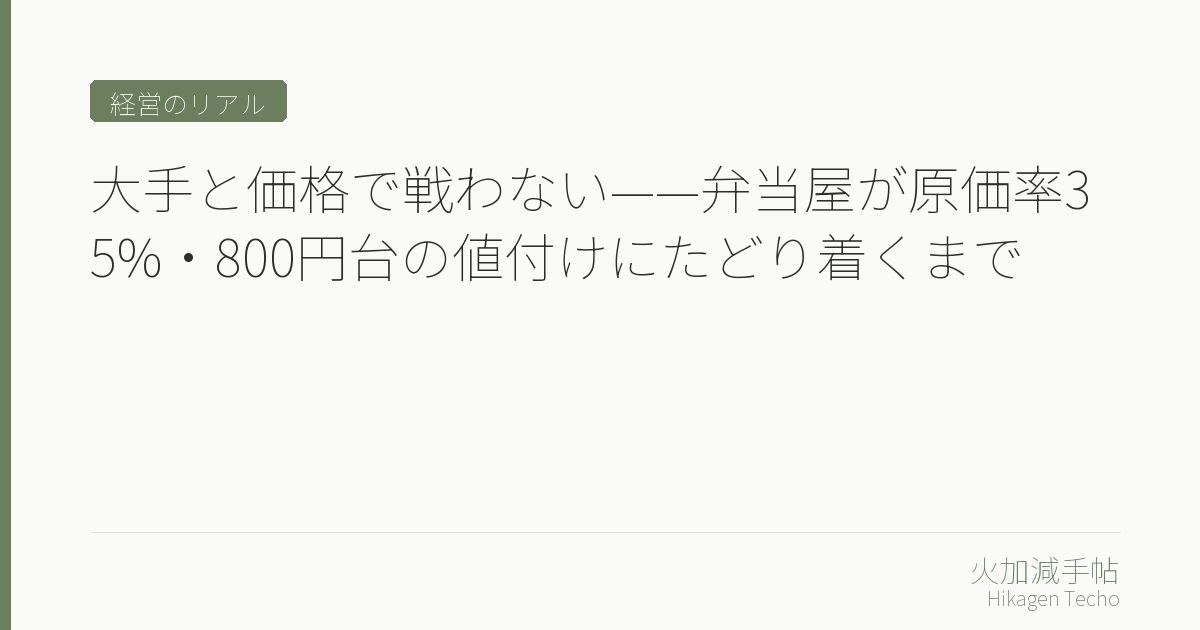
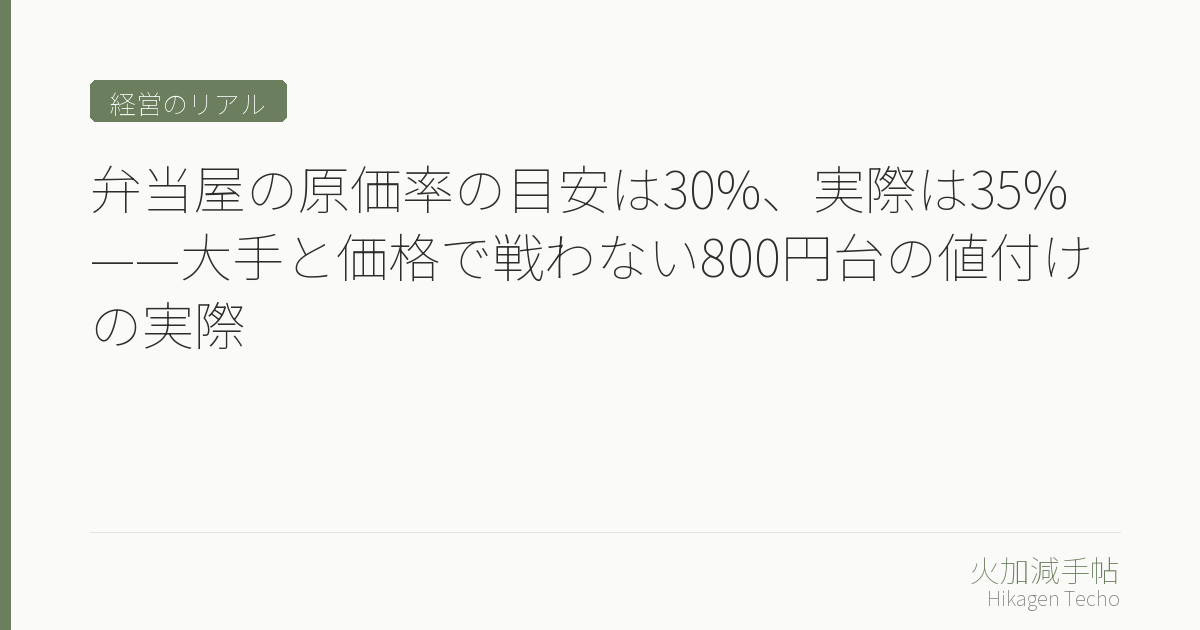
feat: strengthen keiei/nebuke for 原価率 query cluster (GSC-driven)
GSCで nebuke が96表示・掲載順位10.4位（1P目最下部）とサイト表示の約半分を
占めるのにクリック0だったため、原価率クラスター（目安/相場/30-40%/高級弁当）に
最適化。タイトル・description・H1を検索語に寄せ、原価率の目安と相場セクション＋
FAQ2問を追加。genka-kanri への内部リンクを追加し、関連リンクの404
（hitori-unui→hitori-unei）を修正。dateModified・OGP・sitemap更新。

Changed region(s): [[0.0617, 0.2413, 0.925, 0.4524], [0.0617, 0.4825, 0.2158, 0.5429]]

diff --git a/keiei/nebuke/index.html b/keiei/nebuke/index.html
@@ -8,14 +8,14 @@
 <link rel="apple-touch-icon" href="/apple-touch-icon.png">
 
 <!-- ===== 基本メタ / SEO ===== -->
-<title>大手と価格で戦わない——弁当屋が原価率35%・800円台の値付けにたどり着くまで｜火加減手帖</title>
-<meta name="description" content="弁当800〜1,000円・原価率平均35%・看板商品の誤算まで。大手やスーパーと価格で競わない弁当屋の値付け戦略と、実際にやってみてわかった失敗を一次情報で解説します。">
+<title>弁当屋の原価率の目安は30%、実際は35%——大手と価格で戦わない800円台の値付けの実際｜火加減手帖</title>
+<meta name="description" content="弁当屋の原価率の目安は？私の店は目標30%・実際の平均は35%前後（高級弁当は40%になることも）。大手やスーパーと価格で戦わない800円台の値付けと、看板商品の誤算まで一次情報で解説します。">
 <link rel="canonical" href="https://hikagen-techo.com/keiei/nebuke/">
 
 <!-- ===== OGP ===== -->
 <meta property="og:type" content="article">
-<meta property="og:title" content="大手と価格で戦わない——弁当屋が原価率35%・800円台の値付けにたどり着くまで｜火加減手帖">
-<meta property="og:description" content="弁当800〜1,000円・原価率平均35%・看板商品の誤算まで。大手と価格で戦わない弁当屋の値付け戦略と失敗を本音で。">
+<meta property="og:title" content="弁当屋の原価率の目安は30%、実際は35%——大手と価格で戦わない800円台の値付けの実際｜火加減手帖">
+<meta property="og:description" content="弁当屋の原価率の目安は？目標30%・実際の平均35%前後（高級弁当は40%も）。大手と価格で戦わない800円台の値付けと看板商品の誤算を本音で。">
 <meta property="og:url" content="https://hikagen-techo.com/keiei/nebuke/">
 <meta property="og:site_name" content="火加減手帖">
 <meta property="og:locale" content="ja_JP">
@@ -51,15 +51,16 @@
 {
   "@context": "https://schema.org",
   "@type": "Article",
-  "headline": "大手と価格で戦わない——弁当屋が原価率35%・800円台の値付けにたどり着くまで",
-  "description": "弁当800〜1,000円・原価率平均35%・看板商品の誤算まで。大手やスーパーと価格で競わない弁当屋の値付け戦略と、実際にやってみてわかった失敗を一次情報で解説します。",
+  "headline": "弁当屋の原価率の目安は30%、実際は35%——大手と価格で戦わない800円台の値付けの実際",
+  "description": "弁当屋の原価率の目安は？私の店は目標30%・実際の平均は35%前後（高級弁当は40%になることも）。大手やスーパーと価格で戦わない800円台の値付けと、看板商品の誤算まで一次情報で解説します。",
   "mainEntityOfPage": { "@type": "WebPage", "@id": "https://hikagen-techo.com/keiei/nebuke/" },
   "author": { "@id": "https://hikagen-techo.com/#person" },
   "publisher": { "@type": "Organization", "name": "火加減手帖", "url": "https://hikagen-techo.com/" },
   "datePublished": "2026-05-28",
-  "dateModified": "2026-05-28",
+  "dateModified": "2026-07-15",
   "inLanguage": "ja",
-  "articleSection": "経営のリアル"
+  "articleSection": "経営のリアル",
+  "keywords": "弁当屋 原価率, 原価率 目安, 原価率 相場, 高級弁当 原価率, 弁当 値付け"
 }
 </script>
 
@@ -86,6 +87,16 @@
       "@type": "Question",
       "name": "弁当屋の適正な原価率はどのくらいですか？",
       "acceptedAnswer": { "@type": "Answer", "text": "一般的には30%前後が目安とされています。私は30%を目標にしていますが、見栄えを考えて食材を足すことが多く、実際の平均は35%前後です。高い商品では40%になることもあります。" }
+    },
+    {
+      "@type": "Question",
+      "name": "弁当屋の原価率の相場・目安は30%と35%のどちらですか？",
+      "acceptedAnswer": { "@type": "Answer", "text": "一般に語られる目安・相場は30%前後で、値付けの出発点としてはこの数字が妥当です。ただ実際に営業すると、見栄えのために食材を足す分で私の店の平均は35%前後に上がります。目安は30%、実態は35%前後、と分けて考えるのが現実的です。" }
+    },
+    {
+      "@type": "Question",
+      "name": "高級弁当の原価率はどのくらいが目安ですか？",
+      "acceptedAnswer": { "@type": "Answer", "text": "見栄えや素材を重視する高級弁当は、通常の弁当より原価率が高くなり、私の店では35〜40%になることが多いです。原価率を抑えるより、その価格でも選ばれる付加価値を作れるかどうかで判断しています。" }
     },
     {
       "@type": "Question",
@@ -155,11 +166,11 @@
   <!-- 記事ヘッダー -->
   <header class="post-header">
     <span class="post-cat">経営のリアル</span>
-    <h1 class="post-title">大手と価格で戦わない——弁当屋が原価率35%・800円台の値付けにたどり着くまで</h1>
+    <h1 class="post-title">弁当屋の原価率の目安は30%、実際は35%——大手と価格で戦わない800円台の値付けの実際</h1>
     <div class="post-meta">
       <time datetime="2026-05-28">2026年5月28日 公開</time>
       <span class="dot"></span>
-      <time datetime="2026-05-28">2026年5月28日 更新</time>
+      <time datetime="2026-07-15">2026年7月15日 更新</time>
       <span class="dot"></span>
       <span>著者：HANABI</span>
     </div>
@@ -197,6 +208,16 @@
     <p>原因は<strong>「見栄え」</strong>です。弁当は見た目が買う理由に直結します。盛り付けを見て「なんか少ない」と感じると、つい食材を足してしまう。その積み重ねで、高い商品では原価率が40%を超えることもあります。平均で35%前後に収めることを意識していますが、常にせめぎあっています。</p>
     <p>これは失敗というより<strong>「お客さんに選ばれ続けるためのコスト」</strong>と捉えています。見栄えを犠牲にして原価率を下げれば数字は改善しますが、それで客足が遠のいては意味がありません。</p>
 
+    <!-- ⑤-2 原価率の目安と相場 -->
+    <h2>弁当屋の原価率の目安と相場：一般論は30%、実際は35〜40%に寄る</h2>
+    <p>「弁当屋の原価率はどのくらいが目安か」「相場はいくらか」とよく聞かれます。一般に語られる目安・相場は<strong>30%前後</strong>で、私も開業時はこの数字を基準に値付けしました。ただ3年営んでみると、私の店の実際の平均は<strong>35%前後</strong>に落ち着いています。</p>
+    <p>商品の種類で分けると、こういう感覚です。</p>
+    <ul>
+      <li><strong>通常の弁当・惣菜</strong>……30〜35%を目安に組み立てる</li>
+      <li><strong>高級弁当・見栄え重視の商品</strong>……35〜40%になることが多い</li>
+    </ul>
+    <p>つまり「目安30%・相場30〜35%」という数字自体は正しいのですが、<strong>見栄えを取ると実際は35〜40%帯に寄る</strong>——というのが、原価を毎日見ている立場からの正直なところです。数字を目安どおりに近づけたいなら、まず<a href="/shikumi/genka-kanri/">調味料まで測って原価計算する仕組み</a>を持つのが、私の場合は一番の近道でした。</p>
+
     <!-- ⑥ 値上げの経験 -->
     <h2>値上げの経験：「もっと上げていい」と言われた</h2>
     <p>物価の上昇に合わせて、少しずつ値上げをしてきました。一度に大きく上げるのではなく、<strong>小幅を複数回</strong>というやり方です。</p>
@@ -233,6 +254,16 @@
       </details>
 
       <details>
+        <summary>弁当屋の原価率の相場・目安は30%と35%のどちらですか？</summary>
+        <div class="faq__a"><p>一般に語られる目安・相場は30%前後で、値付けの出発点としてはこの数字が妥当です。ただ実際に営業すると、見栄えのために食材を足す分で私の店の平均は35%前後に上がります。目安は30%、実態は35%前後、と分けて考えるのが現実的です。</p></div>
+      </details>
+
+      <details>
+        <summary>高級弁当の原価率はどのくらいが目安ですか？</summary>
+        <div class="faq__a"><p>見栄えや素材を重視する高級弁当は、通常の弁当より原価率が高くなり、私の店では35〜40%になることが多いです。原価率を抑えるより、その価格でも選ばれる付加価値を作れるかどうかで判断しています。</p></div>
+      </details>
+
+      <details>
         <summary>大手やスーパーの弁当と価格で競合しないためにどうしていますか？</summary>
         <div class="faq__a"><p>仕込みを丁寧にして味の質を上げ、大手にはない付加価値で勝負しています。価格帯をあえて大手より高く設定することで、安さで選ばない客層に絞っています。</p></div>
       </details>
@@ -257,7 +288,11 @@
     <nav class="related" aria-label="関連記事">
       <h2 class="related__heading">あわせて読みたい</h2>
       <div class="related__list">
-        <a class="related__item" href="/keiei/hitori-unui/">
+        <a class="related__item" href="/shikumi/genka-kanri/">
+          <span class="related__cat">仕組み化</span>
+          <div class="related__title">調味料をこっそり測るところから始めた——弁当屋の原価計算、どんぶりから抜け出すまで</div>
+        </a>
+        <a class="related__item" href="/keiei/hitori-unei/">
           <span class="related__cat">経営のリアル</span>
           <div class="related__title">弁当屋2店舗をほぼ1人で3年回している——「何でも屋」をやめて仕組みに任せるまで</div>
         </a>